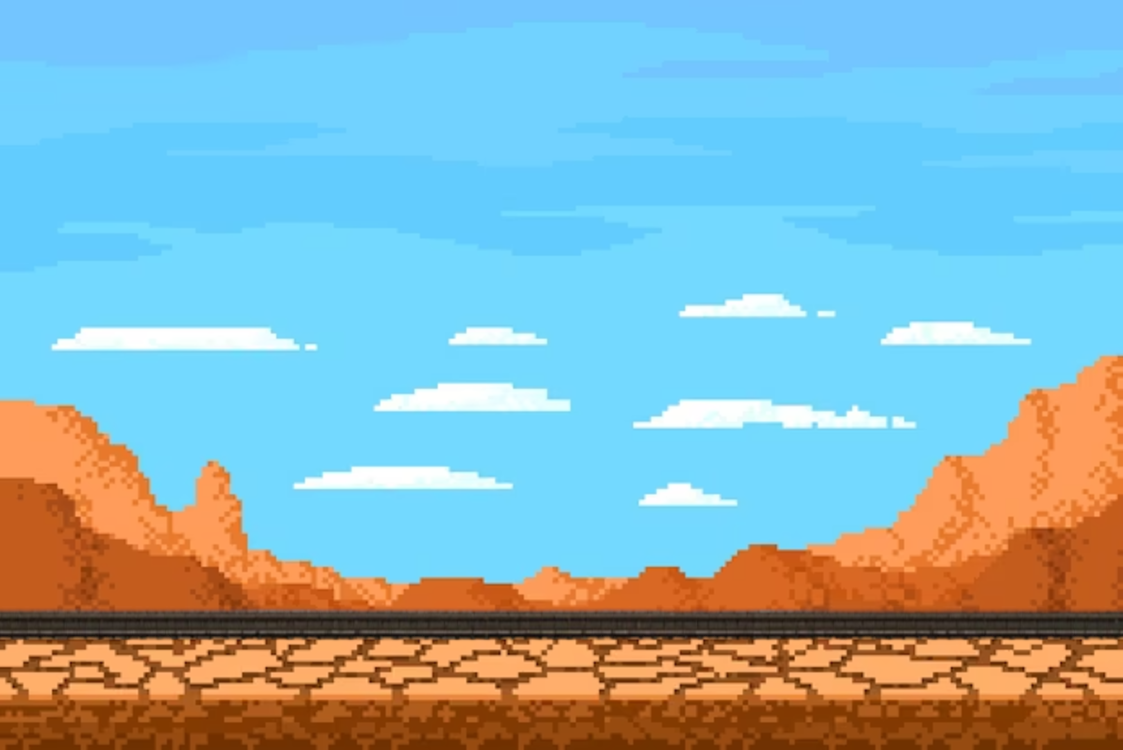
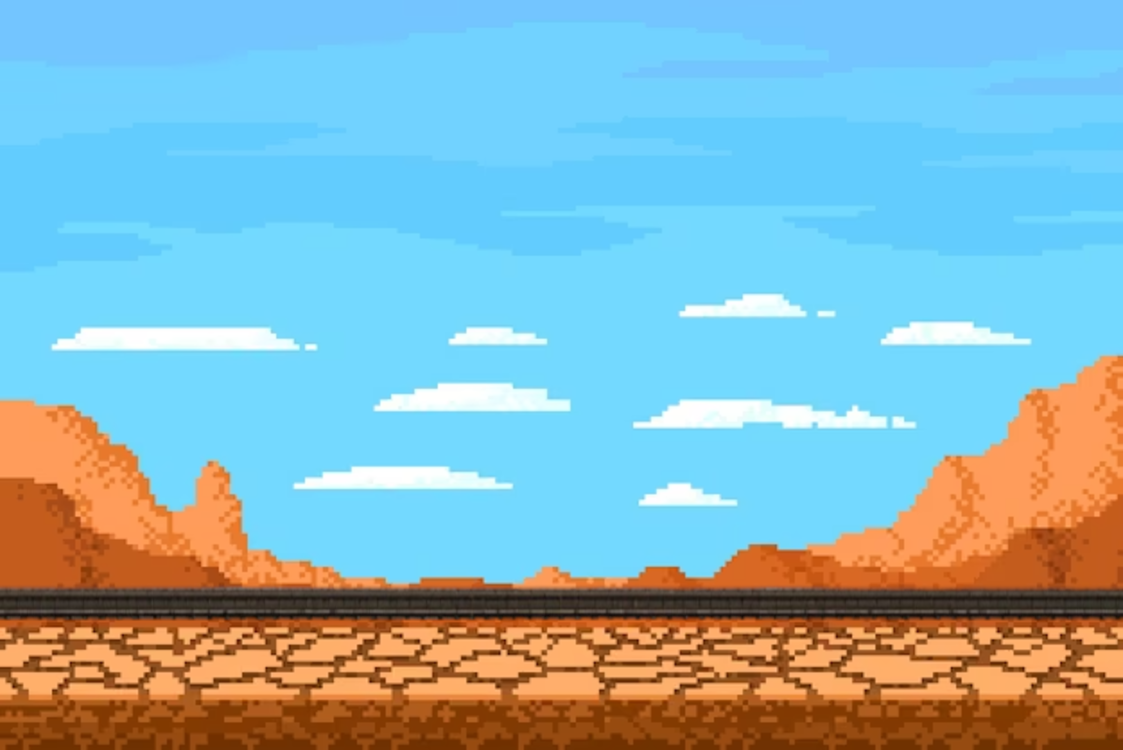
nivel 3 beta

Changed region(s): [[0.0, 0.7667, 1.0, 0.8587]]

diff --git a/main.js b/main.js
@@ -19,6 +19,7 @@ const config = {
 
 const game = new Phaser.Game(config);
 let player;
+let train; // Nueva variable para el tren
 let cursors;
 let background;
 let obstacles = [];
@@ -32,6 +33,7 @@ const obstacleSpeed = 5;
 const obstacleDistance = 600;
 const guardBaseSpeed = 4.8; 
 let guardLastX = 0;
+let trainSpeed = 2;
 
 function preload() {
   this.load.image('player', 'player.png');
@@ -53,7 +55,7 @@ function create() {
   background = this.add.tileSprite(0, 0, this.scale.width, this.scale.height, 'background');
   background.setOrigin(0, 0);
 
-  player = this.physics.add.sprite(this.scale.width / 4, this.scale.height - 100, 'player');
+  player = this.physics.add.sprite(120, this.scale.height - 100, 'player');
   player.setCollideWorldBounds(true);
   player.setBounce(0.2);
 
@@ -80,53 +82,67 @@ function update() {
     changeLevel(this, 'desert', [], 3);
   }
 
-  // Solo mostrar jugador en niveles 1 y 2
+  // Manejo específico para el nivel 3
   if (currentLevel === 3) {
-    // Mover el tren hacia la derecha
-    player.x += 5;
+    // Mover solo el tren
+    if (train) {
+      train.x += trainSpeed;
+      // Si el tren sale de la pantalla, reiniciar su posición
+      if (train.x > this.scale.width) {
+        train.x = -100;
+      }
+    }
+    // El jugador mantiene su posición en x=120
+    if (player) {
+      player.x = 120;
+    }
     return;
   }
 
-  player.x = this.scale.width / 4;
+  // Control del jugador en niveles 1 y 2
+  if (currentLevel < 3) {
+    player.x = 120;
 
-  if (cursors.right.isDown) {
-    background.tilePositionX += backgroundSpeed;
+    if (cursors.right.isDown) {
+      background.tilePositionX += backgroundSpeed;
 
-    obstacles.forEach((obstacle, index) => {
-      obstacle.x -= obstacleSpeed;
+      obstacles.forEach((obstacle, index) => {
+        obstacle.x -= obstacleSpeed;
 
-      if (obstacle.x + obstacle.width < 0) {
-        score += 10;
-        scoreText.setText('Puntos: ' + score);
+        if (obstacle.x + obstacle.width < 0) {
+          score += 10;
+          scoreText.setText('Puntos: ' + score);
 
-        obstacle.destroy();
-        obstacles.splice(index, 1);
+          obstacle.destroy();
+          obstacles.splice(index, 1);
 
-        const nextX = obstacles.length > 0 
-          ? obstacles[obstacles.length - 1].x + obstacleDistance 
-          : this.scale.width + obstacleDistance;
+          const nextX = obstacles.length > 0 
+            ? obstacles[obstacles.length - 1].x + obstacleDistance 
+            : this.scale.width + obstacleDistance;
 
-        const obstacleType = currentLevel === 2 
-          ? getRandomObstacleTypeLevel2() 
-          : currentLevel === 3 
-          ? [] 
-          : getRandomObstacleType();
-        
-        if (obstacleType.length > 0) {
-          createObstacle(this, nextX, obstacleType);
+          const obstacleType = currentLevel === 2 
+            ? getRandomObstacleTypeLevel2() 
+            : getRandomObstacleType();
+          
+          if (obstacleType.length > 0) {
+            createObstacle(this, nextX, obstacleType);
+          }
         }
+      });
+
+      if (currentLevel === 2 && guard) {
+        guard.x -= obstacleSpeed;
+        guard.x += guardBaseSpeed;
       }
-    });
-
-    // Eliminar persecución del guardia
-    if (currentLevel >= 2 && guard) {
-      guard.destroy();
-      guard = null;
+    } else {
+      if (currentLevel === 2 && guard) {
+        guard.x += guardBaseSpeed;
+      }
     }
-  }
 
-  if (cursors.space.isDown && player.body.blocked.down) {
-    player.setVelocityY(-400);
+    if (cursors.space.isDown && player.body.blocked.down) {
+      player.setVelocityY(-400);
+    }
   }
 }
 
@@ -143,8 +159,8 @@ function createObstacle(scene, x, type) {
       break;
     case 'jaguar':
       obstacle.setScale(0.5);
-      obstacle.body.setSize(obstacle.width * 0.6, obstacle.height * 0.6);
-      obstacle.body.setOffset(obstacle.width * 0.2, obstacle.height * 0.2);
+      obstacle.body.setSize(obstacle.width * 0.42, obstacle.height * 0.42);
+      obstacle.body.setOffset(obstacle.width * 0.29, obstacle.height * 0.29);
       break;
     case 'snake':
       obstacle.setScale(0.8);
@@ -196,12 +212,17 @@ function changeLevel(scene, newBackground, newObstacles, newLevel) {
       obstacles.forEach(obstacle => obstacle.destroy());
       obstacles = [];
       
-      // En nivel 3, usar sprite de tren estático
+      // En nivel 3, mantener el jugador y crear el tren
       if (newLevel === 3) {
-        player.destroy();
-        player = scene.add.sprite(scene.scale.width / 4, scene.scale.height - 100, 'tren');
-        player.setScale(0.5);
-        player.setOrigin(0.5, 1);
+        // El jugador se mantiene pero se mueve 10 píxeles más abajo
+        player.y = scene.scale.height - 50;
+        
+        // Crear el tren como un objeto separado
+        train = scene.physics.add.sprite(120, scene.scale.height - 120, 'tren');
+        train.setScale(0.5);
+        train.setOrigin(0.5, 1);
+        train.body.allowGravity = false;
+        train.setCollideWorldBounds(false);
       }
 
       newObstacles.forEach((type, index) => {
